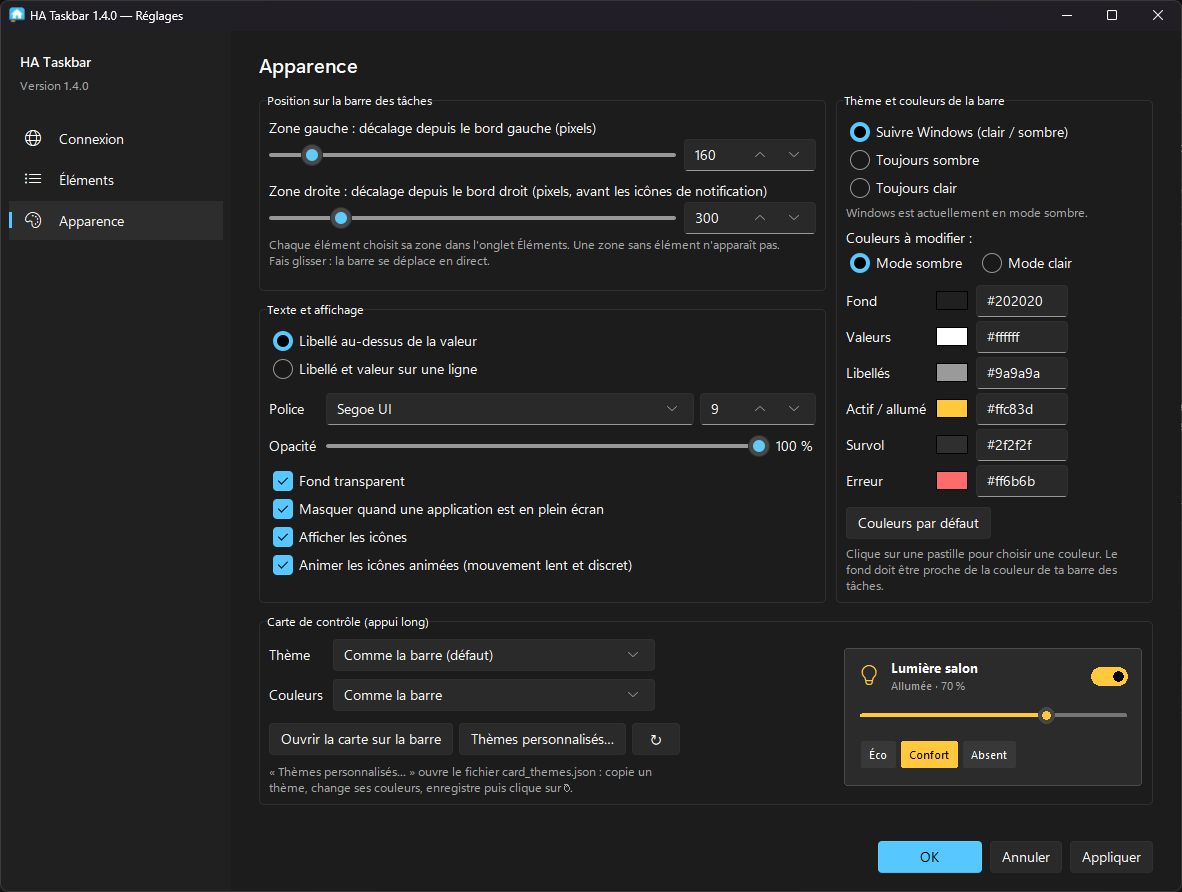
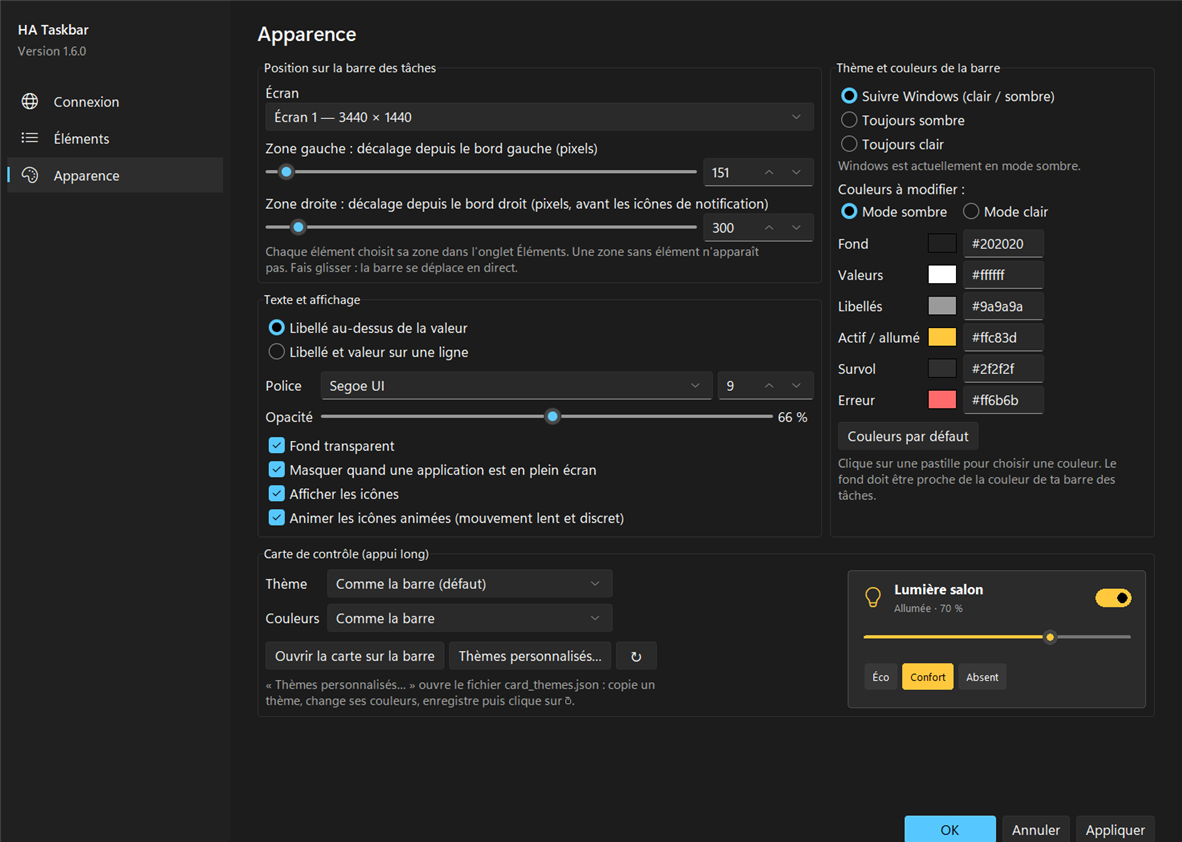
HA Taskbar 1.6.0 : choix de l'ecran (multi-ecran)
- screens.py : liste des ecrans et de leurs barres des taches
  (Shell_TrayWnd / Shell_SecondaryTrayWnd)
- Reglages > Apparence > Ecran ; retour a l'ecran principal si l'ecran choisi
  est debranche ou sans barre des taches
- le plein ecran ne masque la barre que s'il est sur le meme ecran

diff --git a/screens.py b/screens.py
@@ -1,0 +1,106 @@
+"""
+Ecrans et barres des taches (multi-ecran).
+
+La barre de l'ecran principal est la fenetre "Shell_TrayWnd" ; celle de chaque autre ecran est une
+"Shell_SecondaryTrayWnd" (si Windows affiche la barre des taches sur tous les ecrans).
+Un ecran est designe par son nom de peripherique (ex. "\\\\.\\DISPLAY2") ; "" = ecran principal.
+"""
+import ctypes
+import re
+from ctypes import wintypes
+
+user32 = ctypes.windll.user32
+
+MONITOR_DEFAULTTONEAREST = 2
+MONITORINFOF_PRIMARY = 1
+
+
+class MONITORINFOEXW(ctypes.Structure):
+    _fields_ = [("cbSize", wintypes.DWORD), ("rcMonitor", wintypes.RECT), ("rcWork", wintypes.RECT),
+                ("dwFlags", wintypes.DWORD), ("szDevice", ctypes.c_wchar * 32)]
+
+
+MONITORENUMPROC = ctypes.WINFUNCTYPE(wintypes.BOOL, wintypes.HANDLE, wintypes.HDC,
+                                     ctypes.POINTER(wintypes.RECT), wintypes.LPARAM)
+_FindWindowW = ctypes.WINFUNCTYPE(wintypes.HWND, wintypes.LPCWSTR, wintypes.LPCWSTR)(("FindWindowW", user32))
+_FindWindowExW = ctypes.WINFUNCTYPE(wintypes.HWND, wintypes.HWND, wintypes.HWND, wintypes.LPCWSTR,
+                                    wintypes.LPCWSTR)(("FindWindowExW", user32))
+_MonitorFromWindow = ctypes.WINFUNCTYPE(wintypes.HANDLE, wintypes.HWND, wintypes.DWORD)(
+    ("MonitorFromWindow", user32))
+_GetMonitorInfoW = ctypes.WINFUNCTYPE(wintypes.BOOL, wintypes.HANDLE, ctypes.POINTER(MONITORINFOEXW))(
+    ("GetMonitorInfoW", user32))
+_EnumDisplayMonitors = ctypes.WINFUNCTYPE(wintypes.BOOL, wintypes.HDC, ctypes.c_void_p, MONITORENUMPROC,
+                                          wintypes.LPARAM)(("EnumDisplayMonitors", user32))
+
+
+def monitor_info(hmon):
+    mi = MONITORINFOEXW()
+    mi.cbSize = ctypes.sizeof(MONITORINFOEXW)
+    if not hmon or not _GetMonitorInfoW(hmon, ctypes.byref(mi)):
+        return None
+    return mi
+
+
+def monitor_of(hwnd):
+    return _MonitorFromWindow(hwnd, MONITOR_DEFAULTTONEAREST) if hwnd else None
+
+
+def _taskbar_windows():
+    main = _FindWindowW("Shell_TrayWnd", None)
+    wins = [main] if main else []
+    h = None
+    while True:
+        h = _FindWindowExW(None, h, "Shell_SecondaryTrayWnd", None)
+        if not h:
+            break
+        wins.append(h)
+    return wins
+
+
+def monitors():
+    """Tous les ecrans : liste de dicts device, primary, width, height, left, taskbar (hwnd ou None).
+    Ecran principal d'abord, puis de gauche a droite."""
+    bars = {}
+    for tb in _taskbar_windows():
+        mi = monitor_info(monitor_of(tb))
+        if mi is not None:
+            bars.setdefault(mi.szDevice, tb)
+    found = []
+
+    def cb(hmon, hdc, rect, data):
+        mi = monitor_info(hmon)
+        if mi is not None:
+            r = mi.rcMonitor
+            found.append({"device": mi.szDevice, "primary": bool(mi.dwFlags & MONITORINFOF_PRIMARY),
+                          "width": r.right - r.left, "height": r.bottom - r.top, "left": r.left,
+                          "top": r.top, "taskbar": bars.get(mi.szDevice)})
+        return True
+    _EnumDisplayMonitors(None, None, MONITORENUMPROC(cb), 0)
+    found.sort(key=lambda m: (not m["primary"], m["left"], m["top"]))
+    return found
+
+
+def screen_number(device):
+    m = re.search(r"(\d+)\s*$", device or "")
+    return int(m.group(1)) if m else None
+
+
+def monitor_label(m):
+    n = screen_number(m["device"])
+    text = "Écran %s — %d × %d" % (n if n is not None else "?", m["width"], m["height"])
+    if m["primary"]:
+        text += " (principal)"
+    if not m["taskbar"]:
+        text += " — sans barre des tâches"
+    return text
+
+
+def find_taskbar(device=""):
+    """Barre des taches de l'ecran demande ; celle de l'ecran principal si absente."""
+    wins = _taskbar_windows()
+    if device:
+        for tb in wins:
+            mi = monitor_info(monitor_of(tb))
+            if mi is not None and mi.szDevice == device:
+                return tb
+    return wins[0] if wins else None

diff --git a/settings_ui.py b/settings_ui.py
@@ -14,6 +14,7 @@ from tkinter import colorchooser, messagebox, ttk
 from tkinter import font as tkfont
 
 import anim_icons
+import screens
 import ui_theme
 from ha_core import (__version__, ANIM_ICONS, CARD_THEMES, CARD_THEMES_PATH, DARK_COLORS, ICON_FONTS, ICONS, LIGHT_COLORS,
                      PLACEHOLDER_TOKEN, HomeAssistant, auto_icon, bar_colors, bar_light, card_light, card_palette,
@@ -852,7 +853,36 @@ class SettingsWindow:
         pos = ttk.LabelFrame(f, text="Position sur la barre des tâches", padding=10)
         pos.grid(row=0, column=0, sticky="nsew", padx=(0, 10))
         pos.columnconfigure(0, weight=1)
-        maxoff = max(400, self.win.winfo_screenwidth() - 50)
+        try:
+            self.monitors = screens.monitors()
+        except Exception:
+            self.monitors = []
+        maxoff = max([400, self.win.winfo_screenwidth() - 50] + [m["width"] - 50 for m in self.monitors])
+
+        # --- ecran (multi-ecran)
+        ttk.Label(pos, text="Écran").grid(row=0, column=0, sticky="w", pady=(0, 2))
+        cur = self.cfg.get("monitor", "") or ""
+        prim = next((m for m in self.monitors if m["primary"]), None)
+        self.screen_choices = [("", "Écran principal" + (" — %d × %d" % (prim["width"], prim["height"])
+                                                          if prim else ""))]
+        for m in self.monitors:
+            if not m["primary"]:
+                self.screen_choices.append((m["device"], screens.monitor_label(m)))
+        if cur and cur not in [d for d, _ in self.screen_choices]:
+            self.screen_choices.append((cur, "Écran %s (non branché)" % (screens.screen_number(cur) or "?")))
+        self.cb_screen = ttk.Combobox(pos, state="readonly", values=[t for _, t in self.screen_choices])
+        self.cb_screen.current(next(i for i, (d, _) in enumerate(self.screen_choices) if d == cur))
+        self.cb_screen.grid(row=1, column=0, sticky="ew")
+
+        def on_screen(_e=None):
+            self.cfg["monitor"] = self.screen_choices[self.cb_screen.current()][0]
+            self.changed()
+        self.cb_screen.bind("<<ComboboxSelected>>", on_screen)
+        if len(self.monitors) > 1 and any(not m["taskbar"] for m in self.monitors):
+            self.hint(pos, "Un écran sans barre des tâches ne peut pas accueillir les boutons : active "
+                           "« Afficher ma barre des tâches sur tous les écrans » dans les paramètres de "
+                           "Windows (Personnalisation → Barre des tâches → Comportements).",
+                      row=2, column=0, sticky="w", pady=(2, 0))
 
         def offset_slider(row, text, key, default):
             ttk.Label(pos, text=text).grid(row=row, column=0, sticky="w", pady=(10 if row else 0, 2))
@@ -874,13 +904,13 @@ class SettingsWindow:
             self.track(var, set_offset)
             return var
 
-        self.v_offset = offset_slider(0, "Zone gauche : décalage depuis le bord gauche (pixels)", "offset", 60)
+        self.v_offset = offset_slider(3, "Zone gauche : décalage depuis le bord gauche (pixels)", "offset", 60)
         self.v_offset_right = offset_slider(
-            2, "Zone droite : décalage depuis le bord droit (pixels, avant les icônes de notification)",
+            5, "Zone droite : décalage depuis le bord droit (pixels, avant les icônes de notification)",
             "offset_right", 300)
         self.hint(pos, "Chaque élément choisit sa zone dans l'onglet Éléments. Une zone sans élément "
                        "n'apparaît pas. Fais glisser : la barre se déplace en direct.",
-                  row=4, column=0, sticky="w", pady=(2, 0))
+                  row=7, column=0, sticky="w", pady=(2, 0))
 
         # --- texte
         look = ttk.LabelFrame(f, text="Texte et affichage", padding=10)

diff --git a/ha_taskbar.py b/ha_taskbar.py
@@ -22,6 +22,7 @@ from ctypes import wintypes
 from tkinter import font as tkfont
 
 import anim_icons
+import screens
 from ha_core import (ACTIVE_STATES, ANIM_ICONS, CONFIG_PATH, DEFAULT_CONFIG, ICON_FONTS, ICON_PATH, ICONS, STATE_TEXT,
                      HomeAssistant, __version__, anim_active, bar_colors, bar_light, icon_key, system_light, item_zone,
                      latest_release, load_config, needs_setup, resolve_icon, resolve_service, save_config,
@@ -104,8 +105,8 @@ def class_name(hwnd):
     return buf.value
 
 
-def foreground_is_fullscreen(own_hwnds):
-    """True si l'app au premier plan est en plein ecran (jeu, video...)."""
+def foreground_is_fullscreen(own_hwnds, taskbar=None):
+    """True si l'app au premier plan est en plein ecran (jeu, video...) sur l'ecran de la barre."""
     fg = user32.GetForegroundWindow()
     if not fg or fg in own_hwnds:
         return False
@@ -114,7 +115,10 @@ def foreground_is_fullscreen(own_hwnds):
     r = get_rect(fg)
     mi = MONITORINFO()
     mi.cbSize = ctypes.sizeof(MONITORINFO)
-    if not user32.GetMonitorInfoW(user32.MonitorFromWindow(fg, MONITOR_DEFAULTTONEAREST), ctypes.byref(mi)):
+    hmon = user32.MonitorFromWindow(fg, MONITOR_DEFAULTTONEAREST)
+    if taskbar and hmon != user32.MonitorFromWindow(taskbar, MONITOR_DEFAULTTONEAREST):
+        return False      # plein ecran sur un autre ecran : la barre reste visible
+    if not user32.GetMonitorInfoW(hmon, ctypes.byref(mi)):
         return False
     m = mi.rcMonitor
     return r.left <= m.left and r.top <= m.top and r.right >= m.right and r.bottom >= m.bottom
@@ -583,7 +587,7 @@ class App:
     def open_card(self, item):
         from card_ui import Card
         self.close_card()
-        tb = user32.FindWindowW("Shell_TrayWnd", None)
+        tb = self.taskbar()
         if not tb:
             return
         r = get_rect(tb)
@@ -787,11 +791,16 @@ class App:
         except (TypeError, ValueError):
             return default
 
+    def taskbar(self):
+        """Barre des taches de l'ecran choisi dans les reglages (ecran principal par defaut)."""
+        return screens.find_taskbar(self.cfg.get("monitor", ""))
+
     def reposition(self):
-        tb = user32.FindWindowW("Shell_TrayWnd", None)
+        tb = self.taskbar()
         if not tb:
             return
-        self.hidden = bool(self.cfg.get("hide_on_fullscreen", True) and foreground_is_fullscreen(self.own_hwnds()))
+        self.hidden = bool(self.cfg.get("hide_on_fullscreen", True)
+                           and foreground_is_fullscreen(self.own_hwnds(), tb))
         r = get_rect(tb)
         for z in self.zones:
             z.show(z.wanted and not self.hidden)

diff --git a/ha_core.py b/ha_core.py
@@ -36,6 +36,7 @@ DEFAULT_CONFIG = {
     "token": "",
     "verify_ssl": True,
     "poll_interval": 5,
+    "monitor": "",                   # ecran des boutons (ex. "\\.\DISPLAY2") ; "" = ecran principal
     "offset": 60,                    # zone gauche : decalage depuis le bord gauche (pixels)
     "offset_right": 300,             # zone droite : decalage depuis le bord droit (avant les icones)
     "layout": "stacked",

diff --git a/README.md b/README.md
@@ -25,6 +25,7 @@ Un **programme d'installation** est fourni : rien d'autre à installer, pas mêm
 ## ✨ Nouveautés de la version 1.6
 
 - 🔔 **Icône dans la zone de notification**, à côté de l'horloge : clic gauche pour ouvrir les réglages, clic droit pour le menu. Elle reste accessible même quand aucun élément n'est affiché.
+- 🖥 **Multi-écran** : choisis l'écran qui affiche les boutons dans **Réglages → Apparence → Écran**. Si cet écran est débranché, la barre revient sur l'écran principal. Une application en plein écran sur un autre écran ne masque plus la barre.
 - 🐞 **Correction** : HA Taskbar n'a plus de bouton dans la barre des tâches. Il apparaissait avec le fond transparent.
 
 > Windows 11 range parfois les nouvelles icônes dans la flèche **^**. Pour l'avoir toujours visible : glisse-la à côté de l'horloge, ou **Paramètres → Personnalisation → Barre des tâches → Autres icônes de la barre d'état système → HA Taskbar**.
@@ -335,6 +336,7 @@ Pour les scènes, boutons et scripts, la barre affiche « Activer », « Appuyer
 
 ![Onglet Apparence](docs/screenshots/reglages-apparence.png)
 
+- **Écran** (multi-écran) : l'écran sur lequel s'affichent les boutons. Windows doit afficher la barre des tâches sur cet écran (*Paramètres → Personnalisation → Barre des tâches → Comportements de la barre des tâches → Afficher ma barre des tâches sur tous les écrans*).
 - **Position** : la barre a deux zones, une à **gauche** et une à **droite** (juste avant les icônes de notification). Chacune a son **décalage** en pixels depuis son bord, et le curseur la déplace en direct. Chaque élément choisit sa zone dans l'onglet Éléments (champ **Zone**), et une zone sans élément n'apparaît pas.
 - **Disposition** : libellé au-dessus de la valeur, ou les deux sur une ligne :
 
@@ -375,6 +377,8 @@ Format d'un élément :
 ```
 
 Seul `entity_id` est obligatoire. `icon` peut valoir `"auto"` (par défaut), `"none"`, une clé de `ICONS` dans [`ha_core.py`](ha_core.py), ou une icône animée : `"flame_anim"`, `"fan_anim"`, `"bulb_anim"`, `"eq_anim"`, `"drop_anim"`, `"snow_anim"`, `"sun_anim"`, `"wifi_anim"`, `"bell_anim"`, `"washer_anim"`, `"bolt_anim"`, `"battery_anim"`, `"radar_anim"`, `"heater_anim"`, `"speaker_anim"`, `"timer_anim"`, `"rain_anim"`, `"gear_anim"` (liste dans [`anim_icons.py`](anim_icons.py)). `service` peut valoir `"none"` pour désactiver le clic. `zone` vaut `"left"` (par défaut) ou `"right"`.
+
+L'écran est `monitor` : vide pour l'écran principal, sinon son nom Windows (par exemple `"\\\\.\\DISPLAY2"` dans le fichier JSON).
 
 Les décalages des deux zones sont `offset` (zone gauche, depuis le bord gauche) et `offset_right` (zone droite, depuis le bord droit). Une ancienne configuration réglée sur le côté droit (`"anchor": "right"`) est convertie toute seule : ses éléments passent dans la zone droite.
 
@@ -417,7 +421,7 @@ Windows 11 ne permet plus d'ajouter des « deskbands » (barres d'outils) à la 
 
 ## 🚧 Limites connues
 
-- Seule la barre des tâches de l'**écran principal** est gérée.
+- Les boutons s'affichent sur **un seul écran** à la fois (au choix dans les réglages).
 - Avec la barre des tâches en **masquage automatique**, la fenêtre ne suit pas l'animation.
 - En fond transparent, le contour du texte est lissé sur la couleur « Fond ». Garde une couleur proche de ta barre des tâches (`#202020` en thème sombre, ou le thème clair pour une barre claire), sinon un léger liseré peut apparaître.
 - Une mise à jour de Windows peut modifier le comportement de la barre des tâches.
